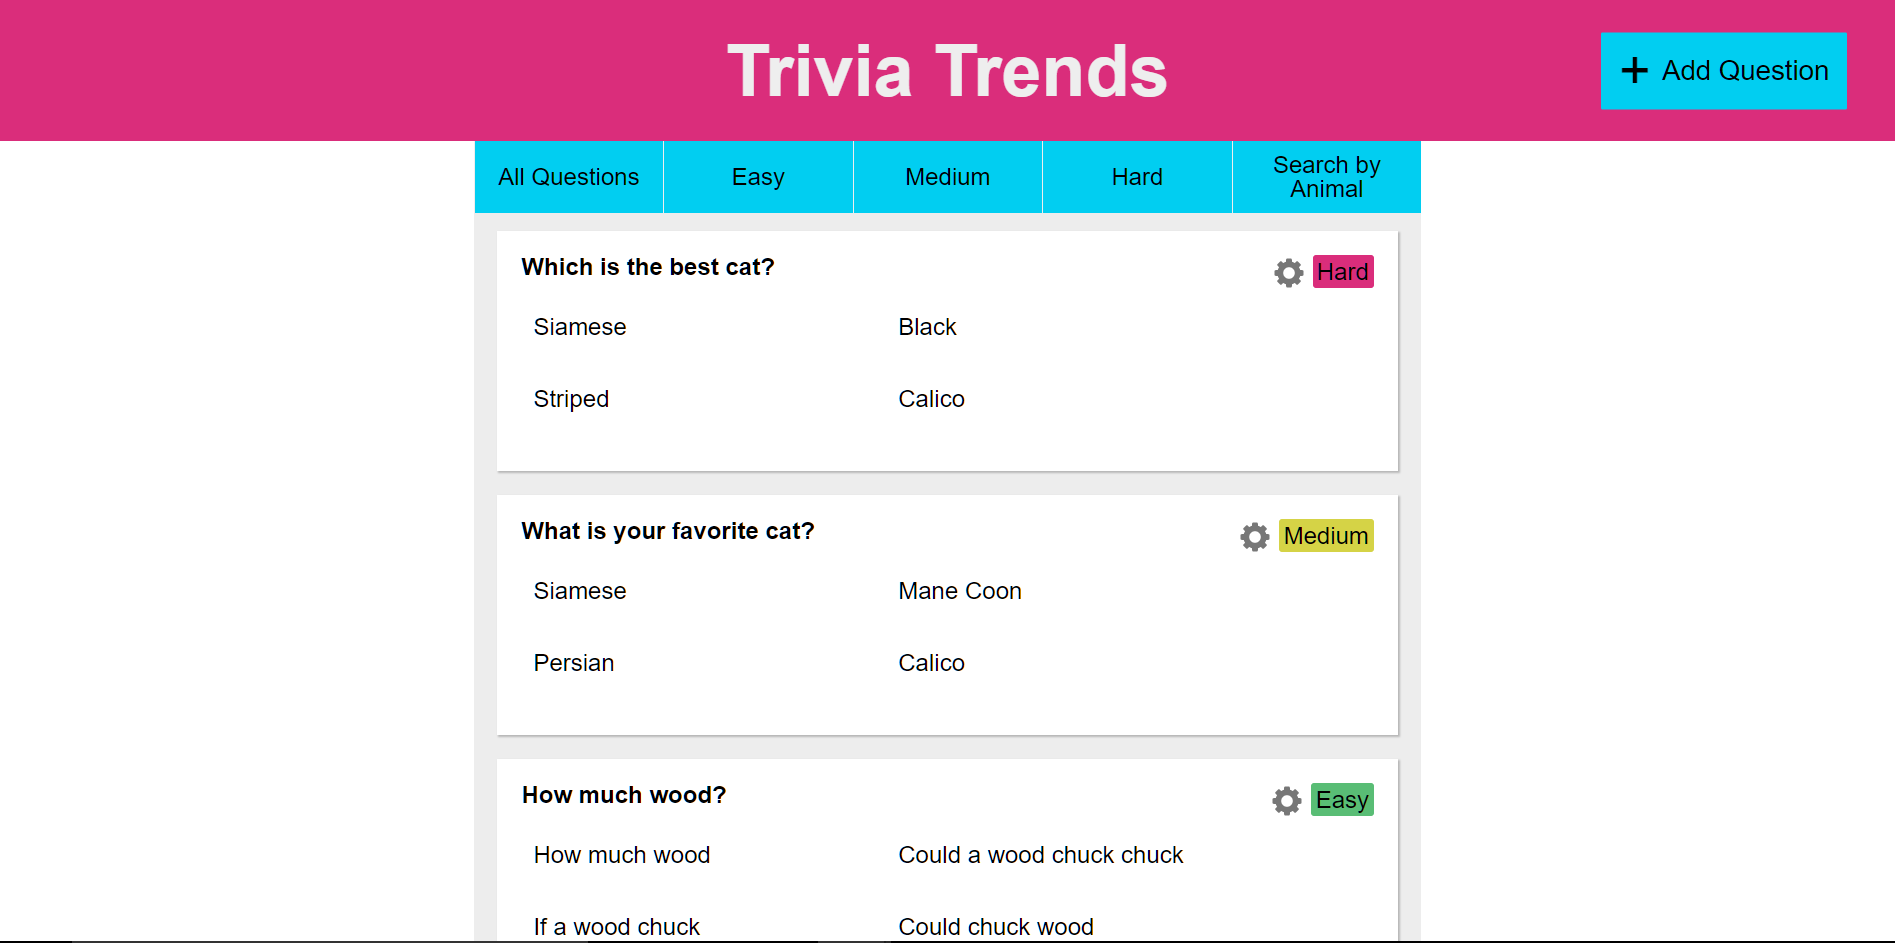
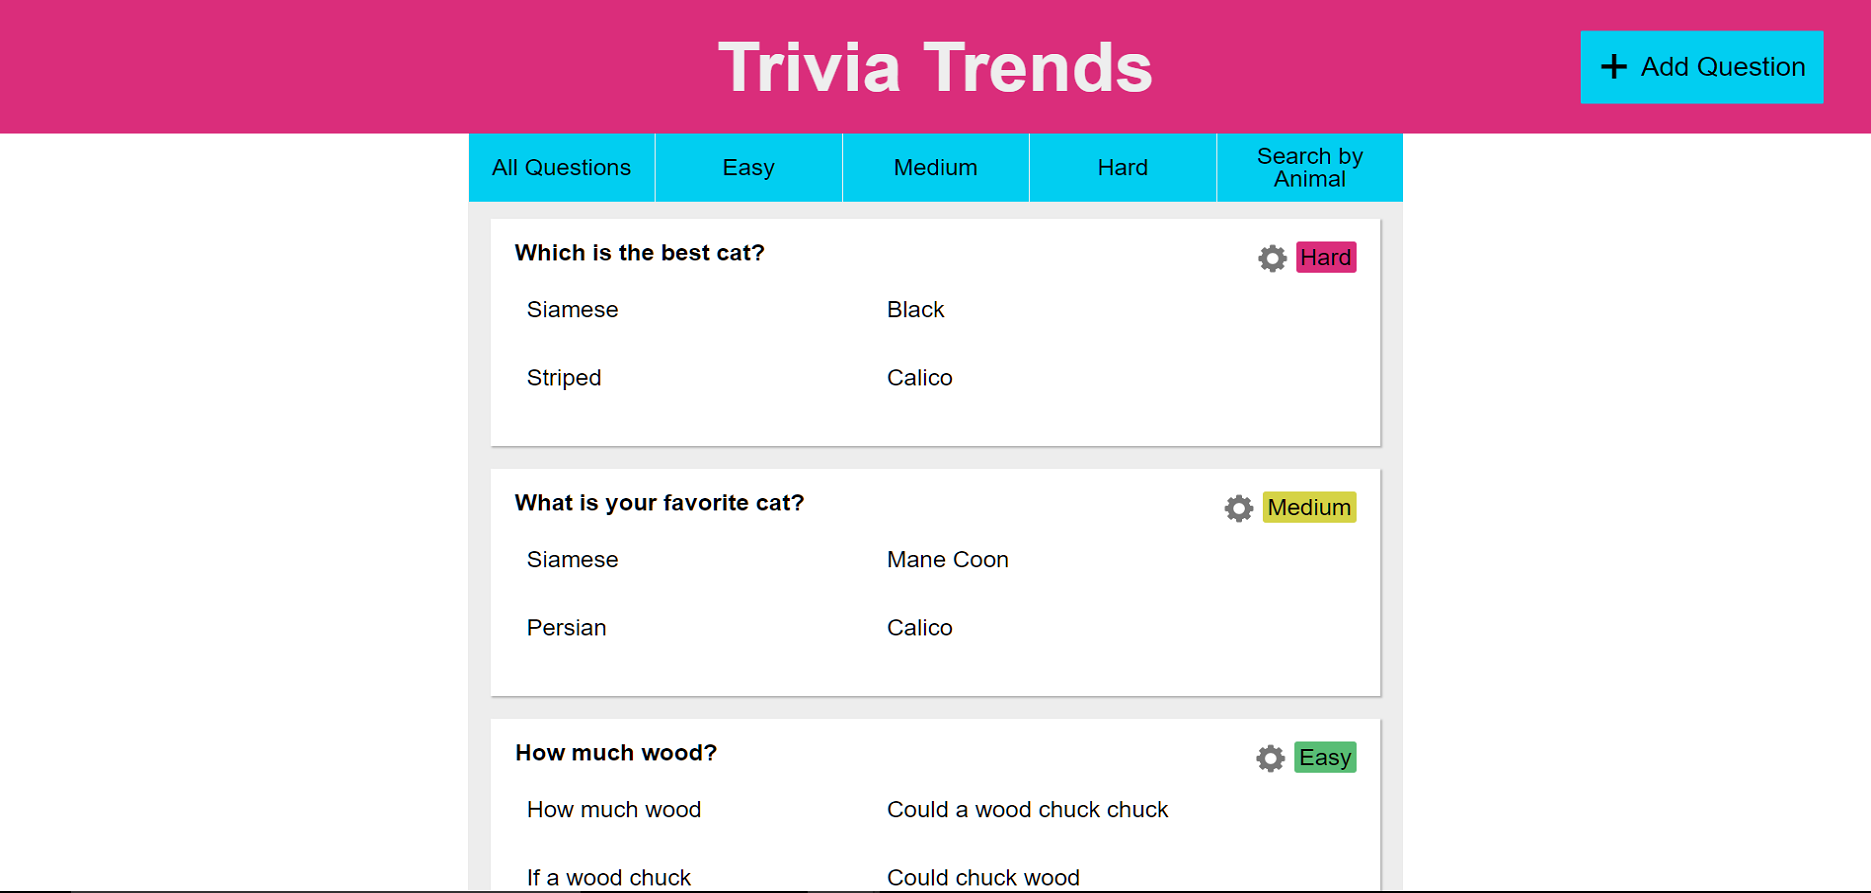
updated image aspect-ratio

diff --git a/src/bio/bio.js b/src/bio/bio.js
@@ -1,8 +1,8 @@
-import boggle from '../assets/Boggle.PNG';
+import boggle from '../assets/Boggle Copy.png';
 import calendar from '../assets/Calendar Screenshot.PNG';
 import colors from '../assets/Color Blender Screenshot.PNG';
-import personal from '../assets/Personal Project Screenshot.PNG';
-import group from '../assets/CodeWars Create page.png';
+import personal from '../assets/Personal Project Copy.png';
+import group from '../assets/CodeWars Copy.png';
 import trivia from '../assets/Trivia Trends Screenshot.PNG';
 import LinkedIn from '../assets/iconmonstr-linkedin-3.svg';
 import redux from '../assets/Redux.svg';
